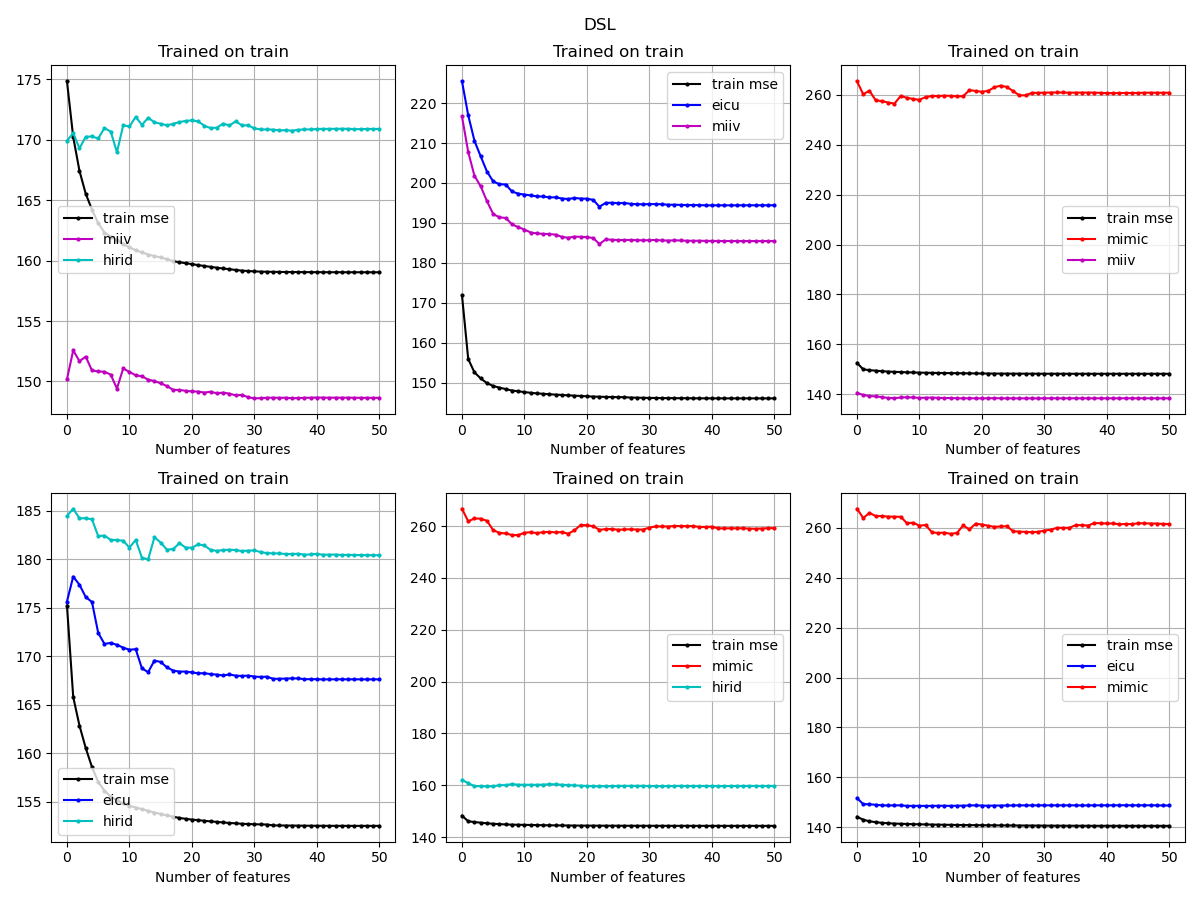
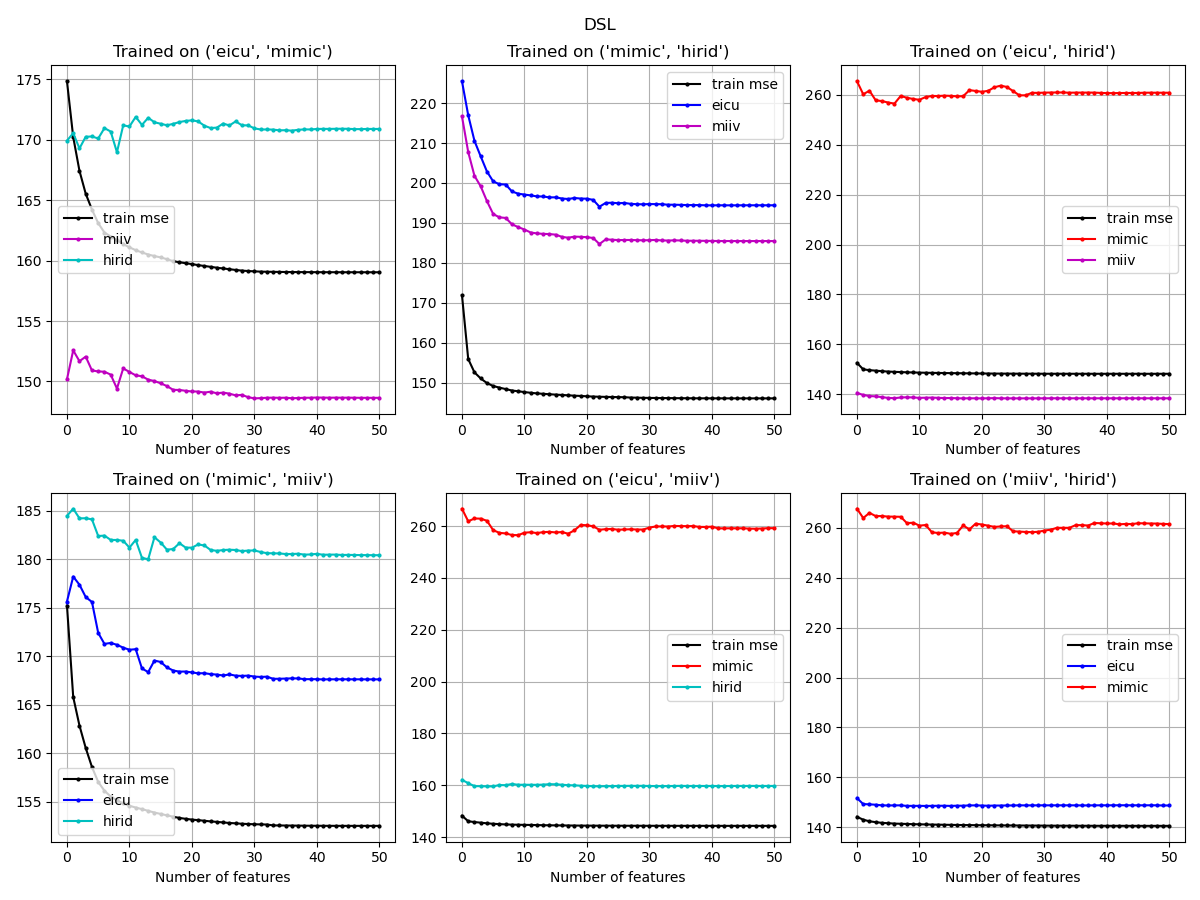
include lasso baseline

diff --git a/ForwardSelection/dsl.py b/ForwardSelection/dsl.py
@@ -28,6 +28,7 @@ preprocessor = ColumnTransformer(
     transformers=make_feature_preprocessing(missing_indicator=False)
     ).set_output(transform="pandas")
 
+alphas = np.linspace(0.001, 2, 10)
 
 for r in range(2,4):
     for group_combination in combinations(datasets, r):
@@ -90,54 +91,56 @@ for r in range(2,4):
                     _Xtrain_augmented[column] = 1/np.sqrt(r_g['miiv'])*_Xtrain_augmented[column]
                 elif 'hirid' in column: 
                     _Xtrain_augmented[column] = 1/np.sqrt(r_g['hirid'])*_Xtrain_augmented[column]
+        
+        forward_coef = {'alpha': [], 'name': [], 'train mse': []}
+        for alpha in alphas: 
+            included_features = []
+            features = _Xtrain_augmented.columns
 
-        included_features = []
-        features = _Xtrain_augmented.columns
-
-        forward_coef = {'name': [], 'train mse': []}
-        for dataset in datasets:
-            if dataset not in group_combination: 
-                forward_coef[f'test mse {dataset}'] = []
-
-        for i in range(51):
-            model = Lasso(fit_intercept=False, alpha=0.001)
-            if i != 0:
-                X = _Xtrain_augmented.drop(columns=forward_coef['name'])
-            else: 
-                X = _Xtrain_augmented
-            name = []
-            train_mse = []
-            test_mse = {dataset:[] for dataset in datasets if dataset not in group_combination}
-            for feature in X.columns:
-                if 'passthrough' in feature: 
-                    if i != 0:
-                        selected_columns = forward_coef['name'].copy()
-                        selected_columns.append(feature)
-                    else:
-                        selected_columns = [feature]
-                    model.fit(_Xtrain_augmented[selected_columns], _ytrain)
-                    #print(model.coef_)
-                    name.append(feature)
-                    train_mse.append(mean_squared_error(_ytrain, model.predict(_Xtrain_augmented[selected_columns])))
-                    for dataset in datasets:
-                        if dataset not in group_combination:
-                            Xtest = preprocessor.fit_transform(_Xydata[dataset])
-                            columns = Xtest.columns
-                            Xtest.rename(columns={col: f'passthrough_features__{col}' for col in columns}, inplace=True)
-                            test_mse[dataset].append(mean_squared_error(_Xydata[dataset]['outcome'] - intercept, model.predict(Xtest[selected_columns])))
-            results_step_df = pd.DataFrame({'name': name, 'train mse': train_mse})
-            for dataset in datasets:
-                if dataset not in group_combination:
-                    results_step_df[f'test mse {dataset}'] = test_mse[dataset]
-            best_feature_name = (results_step_df[results_step_df['train mse'] == results_step_df['train mse'].min()])['name'].iloc[0]
-            best_feature_train_mse = (results_step_df[results_step_df['train mse'] == results_step_df['train mse'].min()])['train mse'].iloc[0]
-            forward_coef['name'].append(best_feature_name)
-            forward_coef['train mse'].append(best_feature_train_mse)
             for dataset in datasets:
                 if dataset not in group_combination: 
-                    best_feature_test_mse = (results_step_df[results_step_df['train mse'] == results_step_df['train mse'].min()])[f'test mse {dataset}'].iloc[0]
-                    forward_coef[f'test mse {dataset}'].append(best_feature_test_mse)
-        pd.DataFrame(forward_coef).to_parquet(f'dsl_results/alpha_small_train_on_{group_combination}_forward_selection_results.parquet')
+                    forward_coef[f'test mse {dataset}'] = []
+            
+            for i in range(51):
+                model = Lasso(fit_intercept=False, alpha=alpha)
+                if i != 0:
+                    X = _Xtrain_augmented.drop(columns=forward_coef['name'])
+                else: 
+                    X = _Xtrain_augmented
+                name = []
+                train_mse = []
+                test_mse = {dataset:[] for dataset in datasets if dataset not in group_combination}
+                for feature in X.columns:
+                    if 'passthrough' in feature: 
+                        if i != 0:
+                            selected_columns = forward_coef['name'].copy()
+                            selected_columns.append(feature)
+                        else:
+                            selected_columns = [feature]
+                        model.fit(_Xtrain_augmented[selected_columns], _ytrain)
+                        #print(model.coef_)
+                        name.append(feature)
+                        train_mse.append(mean_squared_error(_ytrain, model.predict(_Xtrain_augmented[selected_columns])))
+                        for dataset in datasets:
+                            if dataset not in group_combination:
+                                Xtest = preprocessor.fit_transform(_Xydata[dataset])
+                                columns = Xtest.columns
+                                Xtest.rename(columns={col: f'passthrough_features__{col}' for col in columns}, inplace=True)
+                                test_mse[dataset].append(mean_squared_error(_Xydata[dataset]['outcome'] - intercept, model.predict(Xtest[selected_columns])))
+                results_step_df = pd.DataFrame({'name': name, 'train mse': train_mse})
+                for dataset in datasets:
+                    if dataset not in group_combination:
+                        results_step_df[f'test mse {dataset}'] = test_mse[dataset]
+                best_feature_name = (results_step_df[results_step_df['train mse'] == results_step_df['train mse'].min()])['name'].iloc[0]
+                best_feature_train_mse = (results_step_df[results_step_df['train mse'] == results_step_df['train mse'].min()])['train mse'].iloc[0]
+                forward_coef['name'].append(best_feature_name)
+                forward_coef['train mse'].append(best_feature_train_mse)
+                forward_coef['alpha'].append(alpha)
+                for dataset in datasets:
+                    if dataset not in group_combination: 
+                        best_feature_test_mse = (results_step_df[results_step_df['train mse'] == results_step_df['train mse'].min()])[f'test mse {dataset}'].iloc[0]
+                        forward_coef[f'test mse {dataset}'].append(best_feature_test_mse)
+        pd.DataFrame(forward_coef).to_parquet(f'dsl_results/multiple_alphas_train_on_{group_combination}_forward_selection_results.parquet')
         print(group_combination)
         print(pd.DataFrame(forward_coef))
         print()

diff --git a/ForwardSelection/baseline.py b/ForwardSelection/baseline.py
@@ -6,9 +6,11 @@ sys.path.append(os.path.abspath(os.path.join(os.path.dirname(__file__), '..',)))
 import numpy as np
 import pandas as pd
 
+from itertools import combinations
 from sklearn.compose import ColumnTransformer
-from sklearn.linear_model import LinearRegression
+from sklearn.linear_model import LinearRegression, Lasso
 from sklearn.metrics import mean_squared_error
+from sklearn.model_selection import GridSearchCV
 
 from constants import CATEGORICAL_COLUMNS
 from icu_experiments.load_data import load_data_for_prediction
@@ -22,10 +24,77 @@ data = load_data_for_prediction(outcome=outcome)
 _Xydata = {source: data[source]['train'][lambda x: (x['sex'].eq('Male'))|(x['sex'].eq('Female'))] for source in datasets}
 
 # Preprocessing of individual groups
-Preprocessor = ColumnTransformer(
+preprocessor = ColumnTransformer(
     transformers=make_feature_preprocessing(missing_indicator=False)
     ).set_output(transform="pandas")
 
+selected_alphas = {'group name': [], 'alpha': []}
+
+for r in range(2,4):
+    for group_combination in combinations(datasets, r):
+        Xytrain = pd.concat([_Xydata[source] for source in group_combination], ignore_index=True)
+        Xtrain = pd.concat([preprocessor.fit_transform(_Xydata[source]) for source in group_combination], ignore_index=True)
+        ytrain = Xytrain['outcome']
+        intercept = ytrain.mean()
+        ytrain = ytrain - intercept
+
+        search = GridSearchCV(Lasso(fit_intercept=False), param_grid={'alpha': np.linspace(0.001, 2, 10)})
+        search.fit(Xtrain, ytrain)
+        alpha = search.best_params_['alpha']
+        selected_alphas['group name'].append(group_combination)
+        selected_alphas['alpha'].append(alpha)
+
+        included_features = []
+        features = Xtrain.columns
+
+        forward_coef = {'name': [], 'train mse': []}
+        for dataset in datasets:
+            if dataset not in group_combination: 
+                forward_coef[f'test mse {dataset}'] = []
+        
+        for i in range(51):
+            model = Lasso(fit_intercept=False, alpha=alpha)
+            if i != 0:
+                X = Xtrain.drop(columns=forward_coef['name'])
+            else: 
+                X = Xtrain
+            name = []
+            train_mse = []
+            test_mse = {dataset:[] for dataset in datasets if dataset not in group_combination}
+            for feature in X.columns:
+                if i != 0:
+                    selected_columns = forward_coef['name'].copy()
+                    selected_columns.append(feature)
+                else:
+                    selected_columns = [feature]
+                model.fit(Xtrain[selected_columns], ytrain)
+                name.append(feature)
+                train_mse.append(mean_squared_error(ytrain, model.predict(Xtrain[selected_columns])))
+                for dataset in datasets:
+                    if dataset not in group_combination:
+                        Xtest = preprocessor.fit_transform(_Xydata[dataset])
+                        test_mse[dataset].append(mean_squared_error(_Xydata[dataset]['outcome'] - intercept, model.predict(Xtest[selected_columns])))
+            results_step_df = pd.DataFrame({'name': name, 'train mse': train_mse})
+            for dataset in datasets:
+                if dataset not in group_combination:
+                    results_step_df[f'test mse {dataset}'] = test_mse[dataset]
+            best_feature_name = (results_step_df[results_step_df['train mse'] == results_step_df['train mse'].min()])['name'].iloc[0]
+            best_feature_train_mse = (results_step_df[results_step_df['train mse'] == results_step_df['train mse'].min()])['train mse'].iloc[0]
+            forward_coef['name'].append(best_feature_name)
+            forward_coef['train mse'].append(best_feature_train_mse)
+            for dataset in datasets:
+                if dataset not in group_combination: 
+                    best_feature_test_mse = (results_step_df[results_step_df['train mse'] == results_step_df['train mse'].min()])[f'test mse {dataset}'].iloc[0]
+                    forward_coef[f'test mse {dataset}'].append(best_feature_test_mse)
+        pd.DataFrame(forward_coef).to_parquet(f'baseline_results/lasso_train_on_{group_combination}_forward_selection_results.parquet')
+        print(group_combination)
+        print(pd.DataFrame(forward_coef))
+        print()
+
+df = pd.DataFrame(selected_alphas)
+print(df.head())
+df.to_parquet('baseline_results/group_alphas_forward_selection.parquet')
+'''
 for train_set in datasets: 
     _Xtrain = Preprocessor.fit_transform(_Xydata[train_set])
     _ytrain = _Xydata[train_set]['outcome']
@@ -75,4 +144,4 @@ for train_set in datasets:
     pd.DataFrame(forward_coef).to_parquet(f'baseline_results/{train_set}_forward_selection_results.parquet')
     print(train_set)
     print(pd.DataFrame(forward_coef))
-    print()
+    print()'''

diff --git a/ForwardSelection/plotting.py b/ForwardSelection/plotting.py
@@ -4,37 +4,48 @@ import matplotlib.pyplot as plt
 from itertools import combinations
 
 datasets = ['eicu', 'mimic', 'miiv', 'hirid']
-baseline_paths = [f'{dataset}_forward_selection_results.parquet' for dataset in datasets]
 
-fig, axs = plt.subplots(2,2,figsize=(12,9))
-i = 0
-for path in baseline_paths:
-    splitted_path = path.split('_')
-    row, col = divmod(i,2)
-    ax = axs[row,col]
-    data = pd.read_parquet(f'baseline_results/{path}')
-    for col in data.columns:
-        splitted_col = col.split(' ')
-        if 'name' not in col:
-            if 'train' in col:
-                ax.plot(range(0,51), data[col], 'ko-', label=col, ms=2)
-            if 'test' in col:
-                if 'eicu' in col: 
-                    ax.plot(range(0,51), data[col], 'bo-', label=splitted_col[2], ms=2)
-                if 'mimic' in col: 
-                    ax.plot(range(0,51), data[col], 'ro-', label=splitted_col[2], ms=2)
-                if 'miiv' in col: 
-                    ax.plot(range(0,51), data[col], 'mo-', label=splitted_col[2], ms=2)
-                if 'hirid' in col: 
-                    ax.plot(range(0,51), data[col], 'co-', label=splitted_col[2], ms=2)
-    ax.legend()
-    ax.grid()
-    ax.set_xlabel('Number of features')
-    ax.set_title(f'Trained on {splitted_path[0]}')
-    i += 1
-fig.suptitle('OLS Baseline')
+baseline_alphas = pd.read_parquet('baseline_results/Lasso/group_alphas_forward_selection.parquet')
+
+for r in range(2,4):
+    #baseline_paths = [f'lasso_train_on_{group_combination}_forward_selection_results.parquet' for group_combination in group_combs]
+    
+    if r == 2:
+        fig, axs = plt.subplots(2,3,figsize=(12,9))
+    if r == 3:
+        fig, axs = plt.subplots(2,2,figsize=(12,9))
+    i = 0
+    for group_combination in combinations(datasets,r):
+        alpha = baseline_alphas[baseline_alphas['group name'].apply(lambda x: len(x) == len(group_combination) and all(elem in x for elem in group_combination))]['alpha'].iloc[0]
+        if r == 2:
+            row = i%2
+            col = i%3
+        if r == 3:
+            row, col = divmod(i,2)
+        ax = axs[row,col]
+        data = pd.read_parquet(f'baseline_results/Lasso/lasso_train_on_{group_combination}_forward_selection_results.parquet')
+        for col in data.columns:
+            splitted_col = col.split(' ')
+            if 'name' not in col:
+                if 'train' in col:
+                    ax.plot(range(0,51), data[col], 'ko-', label=f'train, alpha={round(alpha,4)}', ms=2)
+                if 'test' in col:
+                    if 'eicu' in col: 
+                        ax.plot(range(0,51), data[col], 'bo-', label=splitted_col[2], ms=2)
+                    if 'mimic' in col: 
+                        ax.plot(range(0,51), data[col], 'ro-', label=splitted_col[2], ms=2)
+                    if 'miiv' in col: 
+                        ax.plot(range(0,51), data[col], 'mo-', label=splitted_col[2], ms=2)
+                    if 'hirid' in col: 
+                        ax.plot(range(0,51), data[col], 'co-', label=splitted_col[2], ms=2)
+        ax.legend()
+        ax.grid()
+        ax.set_xlabel('Number of features')
+        ax.set_title(f'Trained on {group_combination}')
+        i += 1
+    fig.suptitle('Lasso Baseline')
 plt.tight_layout()
-
+'''
 for r in range(2,4):
     dsl_paths = [f'alpha_small_train_on_{group_combination}_forward_selection_results.parquet' for group_combination in combinations(datasets, r)]
     if r == 2:
@@ -68,8 +79,8 @@ for r in range(2,4):
         ax.legend()
         ax.grid()
         ax.set_xlabel('Number of features')
-        ax.set_title(f'Trained on {splitted_path[2]}')
+        ax.set_title(f'Trained on {splitted_path[4]}')
         i += 1
     fig.suptitle('DSL')
-    plt.tight_layout()
+    plt.tight_layout()'''
 plt.show()
